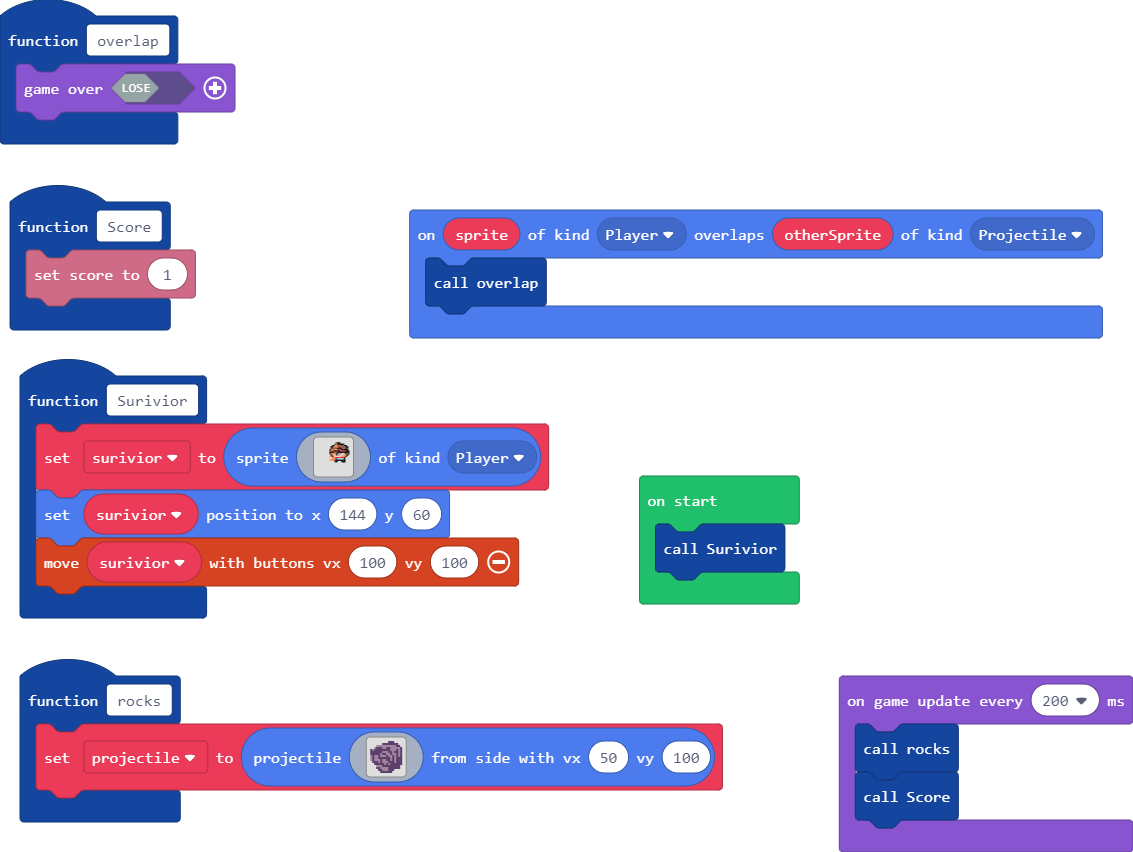
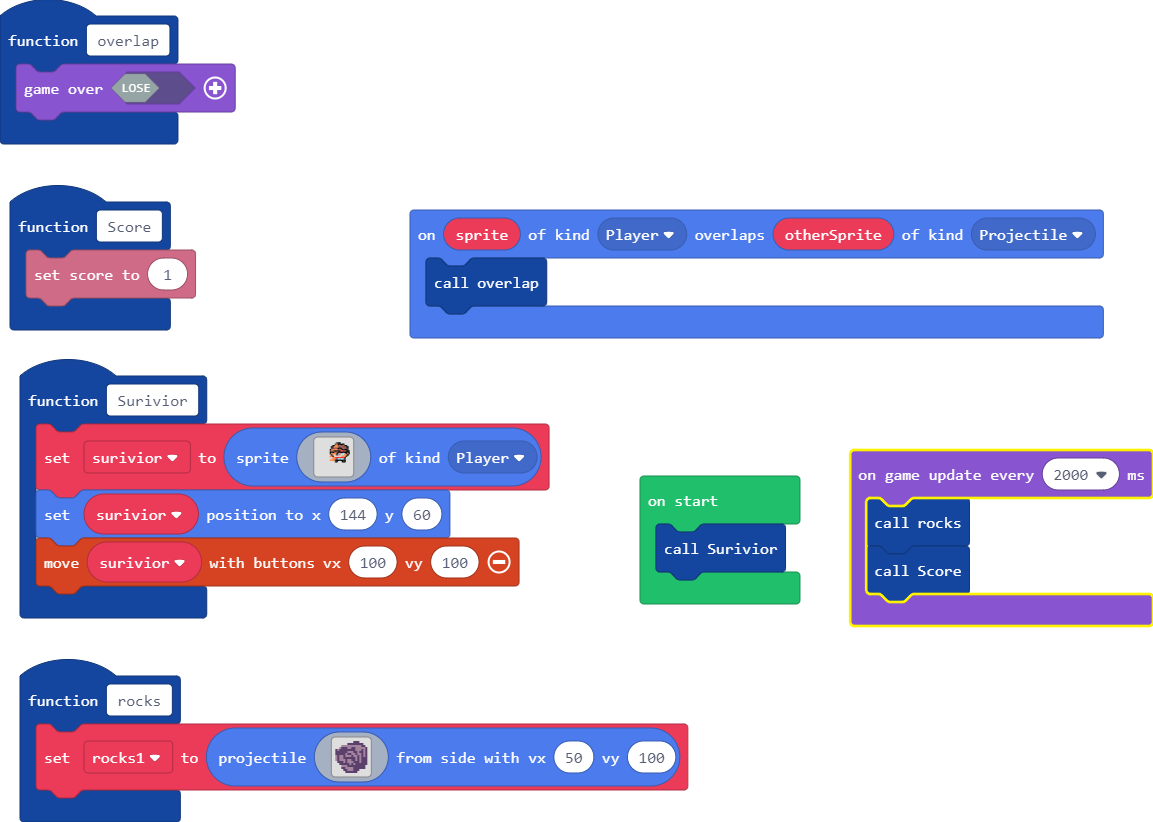
Update main.blocks, main.ts

diff --git a/main.ts b/main.ts
@@ -8,7 +8,7 @@ function overlap () {
     game.over(false)
 }
 function rocks () {
-    projectile = sprites.createProjectileFromSide(img`
+    rocks1 = sprites.createProjectileFromSide(img`
 . . . . . . . . . c c c . . . . 
 . . . . . . c c c c c c c c . . 
 . . . b b b b b b b b b b c c . 
@@ -58,9 +58,9 @@ function Surivior () {
     controller.moveSprite(surivior, 100, 100)
 }
 let surivior: Sprite = null
-let projectile: Sprite = null
+let rocks1: Sprite = null
 Surivior()
-game.onUpdateInterval(200, function () {
+game.onUpdateInterval(2000, function () {
     rocks()
     Score()
 })
